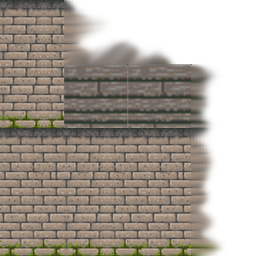
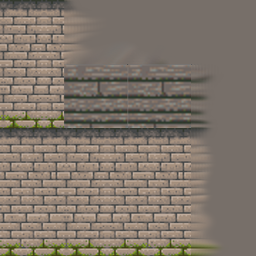
Added scene lights controller

diff --git a/web/shader_properties.dart b/web/shader_properties.dart
@@ -1,11 +1,11 @@
 library ShaderProperties;
 
 import 'dart:web_gl' as webgl;
-import 'dart:math' as Math;
 
 import 'package:vector_math/vector_math.dart';
 
 import 'shader_elements.dart';
+import 'scene_lights.dart';
 
 abstract class ShaderProperty
 {
@@ -111,14 +111,14 @@ class AtlasTextureProperty extends ShaderProperty
   }
 }
 
-class PointLight
+class PointLightUniform
 {
 Vector3Uniform point_pos_;
 Vector3Uniform point_color_;
 Vector3Uniform point_attenuation_;
 }
 
-class LightingShaderProperty implements ShaderProperty
+class LightingShaderProperty implements ShaderProperty, SceneLightsController
 {
   Vector3Uniform directional_dir_;
   Vector3Uniform directional_color_;
@@ -129,13 +129,13 @@ class LightingShaderProperty implements ShaderProperty
   double angle_ = 45.0;
   static const int NUM_LIGHTS = 2;
 
-  List<PointLight> lights_ = new List<PointLight>(NUM_LIGHTS);
+  List<PointLightUniform> lights_ = new List<PointLightUniform>(NUM_LIGHTS);
 
   void init(webgl.RenderingContext gl, webgl.Program shader_program)
   {
-    directional_dir_ = new Vector3Uniform(gl, shader_program, "uDirectionalDir", new Vector3(0.0, 1.0, 0.0));
-    directional_color_ = new Vector3Uniform(gl, shader_program, "uDirectionalColor", new Vector3(0.3, 0.0, 0.3));
-    ambient_color_ = new Vector3Uniform(gl, shader_program, "uAmbientColor", new Vector3(.2, .2, .2));
+    directional_dir_ = new Vector3Uniform(gl, shader_program, "uDirectionalDir");
+    directional_color_ = new Vector3Uniform(gl, shader_program, "uDirectionalColor");
+    ambient_color_ = new Vector3Uniform(gl, shader_program, "uAmbientColor");
     normal_ = new Matrix3Uniform(gl, shader_program, "uNMatrix");
     initializePointLights(gl, shader_program, NUM_LIGHTS);
   }
@@ -144,7 +144,7 @@ class LightingShaderProperty implements ShaderProperty
   {
     for(int i = 0; i < number; i++)
     {
-      lights_[i] = new PointLight();
+      lights_[i] = new PointLightUniform();
       lights_[i].point_pos_ = new Vector3Uniform(gl, shader_program, "lights[$i].uPos");
       lights_[i].point_color_ = new Vector3Uniform(gl, shader_program, "lights[$i].uColor");
       lights_[i].point_attenuation_ = new Vector3Uniform(gl, shader_program, "lights[$i].uAttenuation");
@@ -153,12 +153,6 @@ class LightingShaderProperty implements ShaderProperty
 
   void update(webgl.RenderingContext gl)
   {
-    Vector3 dir = new Vector3(0.0, 1.0, 0.0);
-    Quaternion directional_rotation = new Quaternion.axisAngle(new Vector3(-1.0, 0.0, 0.0),45.0 * Math.PI / 180);
-    directional_rotation.rotate(dir);
-    directional_rotation = new Quaternion.axisAngle(new Vector3(0.0, 0.0, 1.0), angle_ * Math.PI / 180);
-    directional_rotation.rotate(dir);
-    directional_dir_.setData(dir);
     directional_dir_.update();
 
     directional_color_.update();
@@ -171,8 +165,6 @@ class LightingShaderProperty implements ShaderProperty
       lights_[i].point_color_.update();
       lights_[i].point_attenuation_.update();
     }
-
-    angle_ = (angle_ + 0.01) % 360;
   }
 
   void setNormalMatrix(Matrix3 normal_mat)
@@ -180,11 +172,22 @@ class LightingShaderProperty implements ShaderProperty
     normal_.setData(normal_mat);
   }
 
-  void setPointLightPos(Vector3 pos)
+  void SetAmbientLight(BaseLight light)
   {
-    lights_[0].point_pos_.setData(pos);
-    lights_[0].point_color_.setData(new Vector3(0.5, 0.5, 0.5));
-    lights_[0].point_attenuation_.setData(new Vector3(1.0, 1.0, 1.0));
+    ambient_color_.setData(light.color_);
+  }
+
+  void SetDirectionalLight(DirectionalLight light)
+  {
+    directional_color_.setData(light.color_);
+    directional_dir_.setData(light.dir_);
+  }
+
+  void SetPointLight(PointLight light, int index)
+  {
+    lights_[index].point_color_.setData(light.color_);
+    lights_[index].point_pos_.setData(light.pos_);
+    lights_[index].point_attenuation_.setData(light.attenuation_);
   }
 
   static String propName = "LightingShaderProperty";

diff --git a/web/shader_elements.dart b/web/shader_elements.dart
@@ -10,6 +10,7 @@ class Vector3Uniform
   webgl.UniformLocation u_location_;
   webgl.RenderingContext gl_;
   Vector3 data_;
+  bool updated_ = false;
 
   Vector3Uniform(this.gl_, webgl.Program shader_program, String name, [this.data_])
   {
@@ -22,11 +23,16 @@ class Vector3Uniform
 
   void update()
   {
-    gl_.uniform3f(u_location_, data_.x, data_.y, data_.z);
+    if (!updated_)
+    {
+      gl_.uniform3f(u_location_, data_.x, data_.y, data_.z);
+      updated_ = true;
+    }
   }
 
   void setData(Vector3 data)
   {
+    updated_ = false;
     data_ = data;
   }
 }
@@ -36,6 +42,7 @@ class Vector2Uniform
   webgl.UniformLocation u_location_;
   webgl.RenderingContext gl_;
   Vector2 data_;
+  bool updated_ = false;
 
   Vector2Uniform(this.gl_, webgl.Program shader_program, String name, [this.data_])
   {
@@ -48,11 +55,16 @@ class Vector2Uniform
 
   void update()
   {
-    gl_.uniform2f(u_location_, data_.x, data_.y);
+    if(!updated_)
+    {
+      updated_ = true;
+      gl_.uniform2f(u_location_, data_.x, data_.y);
+    }
   }
 
   void setData(Vector2 data)
   {
+    updated_ = false;
     data_ = data;
   }
 }
@@ -62,6 +74,7 @@ class Matrix3Uniform
   webgl.UniformLocation u_location_;
   webgl.RenderingContext gl_;
   Float32List data_ = new Float32List(9);
+  bool updated_ = false;
 
   Matrix3Uniform(this.gl_, webgl.Program shader_program, String name, [Matrix3 initial])
   {
@@ -78,11 +91,16 @@ class Matrix3Uniform
 
   void update()
   {
-    gl_.uniformMatrix3fv(u_location_, false, data_);
+    if(!updated_)
+    {
+      updated_ = true;
+      gl_.uniformMatrix3fv(u_location_, false, data_);
+    }
   }
 
   void setData(Matrix3 data)
   {
+    updated_ = false;
     data.copyIntoArray(data_);
   }
 }
@@ -92,6 +110,7 @@ class Matrix4Uniform
   webgl.UniformLocation u_location_;
   webgl.RenderingContext gl_;
   Float32List data_ = new Float32List(16);
+  bool updated_ = false;
 
   Matrix4Uniform(this.gl_, webgl.Program shader_program, String name, [Matrix4 initial])
   {
@@ -108,11 +127,16 @@ class Matrix4Uniform
 
   void update()
   {
-    gl_.uniformMatrix4fv(u_location_, false, data_);
+    if(!updated_)
+    {
+      updated_ = true;
+      gl_.uniformMatrix4fv(u_location_, false, data_);
+    }
   }
 
   void setData(Matrix4 data)
   {
+    updated_ = false;
     data.copyIntoArray(data_);
   }
 }

diff --git a/web/game_state.dart b/web/game_state.dart
@@ -4,19 +4,29 @@ import 'dart:html';
 import 'dart:async';
 
 import 'package:game_loop/game_loop_html.dart';
+import 'package:vector_math/vector_math.dart';
 
 import 'drawable.dart';
 import 'renderer.dart';
 import 'sprite_importer.dart';
 import 'game_area.dart';
+import 'scene_lights.dart';
 
 class GameState extends SimpleHtmlState
 {
   Renderer renderer_;
+  SceneLightsController lights_controller_;
 
   Map<String, GameArea> areas_ = new Map<String, GameArea>();
   List<GameArea> visible_areas_ = new List<GameArea>();
   List<GameArea> updated_areas_ = new List<GameArea>();
+
+  GameState(this.renderer_)
+  {
+    lights_controller_ = renderer_.getLightsController();
+    lights_controller_.SetAmbientLight(new BaseLight(new Vector3(0.4, 0.4, 0.4)));
+    lights_controller_.SetDirectionalLight(new DirectionalLight(new Vector3(0.5,-0.3,1.0), new Vector3(0.6,0.6,0.6)));
+  }
 
   Future loadArea(String name, String level_path, String behaviour_path, SpriteLoader loader)
   {
@@ -62,10 +72,5 @@ class GameState extends SimpleHtmlState
   }
 
   void onKeyDown(KeyboardEvent event) {
-  }
-
-  GameState(Renderer renderer)
-  {
-    renderer_ = renderer;
   }
 }

diff --git a/web/renderer.dart b/web/renderer.dart
@@ -2,12 +2,14 @@ library Renderer;
 
 import 'dart:html';
 import 'dart:web_gl' as webgl;
-import 'shader.dart';
 
 import 'package:vector_math/vector_math.dart';
 
 import 'camera.dart';
 import 'drawable.dart';
+import 'scene_lights.dart';
+import 'shader.dart';
+import 'shader_properties.dart';
 
 class Renderer
 {
@@ -52,6 +54,12 @@ class Renderer
     gl_.enable(webgl.RenderingContext.DEPTH_TEST);
     gl_.blendFunc(webgl.RenderingContext.SRC_ALPHA, webgl.RenderingContext.ONE_MINUS_SRC_ALPHA);
     gl_.enable(webgl.RenderingContext.BLEND);
+  }
+
+  SceneLightsController getLightsController()
+  {
+    LightingShaderProperty lighting_property = light_shader_.getShaderProperty(LightingShaderProperty.propName);
+    return lighting_property;
   }
 
   void setSize()

diff --git a/web/behaviour/pc_behaviour.dart b/web/behaviour/pc_behaviour.dart
@@ -6,7 +6,6 @@ import '../camera.dart';
 import '../game_state.dart';
 import '../game_area.dart';
 import '../input.dart';
-import '../shader_properties.dart';
 import 'behaviour.dart';
 import 'enemy_behaviour.dart';
 import 'directions.dart';
@@ -25,9 +24,6 @@ class PCNormalState extends WalkingBehaviourState
   void update()
   {
     PCBehaviour element = element_;
-    var shader = element.state_.renderer_.light_shader_;
-    LightingShaderProperty lighting_property = shader.getShaderProperty(LightingShaderProperty.propName);
-    lighting_property.setPointLightPos(element.drawable_.getPosition());
     if(element.input_.isDown(Input.JUMP) && element.on_ground_)
     {
       element.z_accel_ = 0.15;

diff --git a/web/scene_lights.dart b/web/scene_lights.dart
@@ -1,0 +1,29 @@
+library scene_lights;
+
+import 'package:vector_math/vector_math.dart';
+
+class BaseLight
+{
+  Vector3 color_;
+  BaseLight(this.color_);
+}
+
+class DirectionalLight extends BaseLight
+{
+  Vector3 dir_;
+  DirectionalLight(this.dir_, Vector3 color) : super(color);
+}
+
+class PointLight extends BaseLight
+{
+  Vector3 pos_;
+  Vector3 attenuation_;
+  PointLight(this.pos_, this.attenuation_, Vector3 color) : super(color);
+}
+
+abstract class SceneLightsController
+{
+  void SetAmbientLight(BaseLight light);
+  void SetDirectionalLight(DirectionalLight light);
+  void SetPointLight(PointLight light, int index);
+}

diff --git a/web/shader.dart b/web/shader.dart
@@ -231,7 +231,7 @@ vec3 calcDirLight(vec3 vertex_normal)
 vec3 calcPointLight(vec3 vertex_normal, vec3 vertex_pos, int index)
 {
   vec3 light_dir = lights[index].uPos - vertex_pos;
-  float distance = length(light_dir) / 10.0;
+  float distance = length(light_dir);
   return calcLightInternal(vertex_normal, light_dir, lights[index].uColor) / distance * lights[index].uAttenuation.x;  
 }
 
